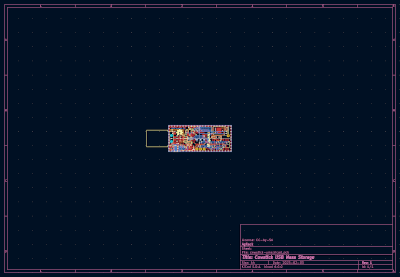
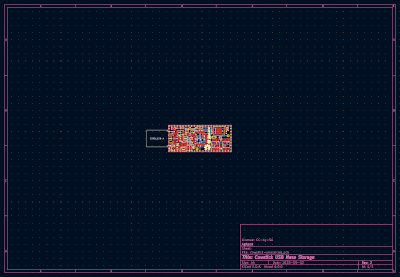
Hardware: Add pictures of rev2, update readme files

Changed region(s): [[0.36, 0.4332, 0.6, 0.5776], [0.72, 0.9242, 0.75, 0.9531], [0.6, 0.8664, 0.63, 0.8953]]

diff --git a/hardware/test_mt3410.md b/hardware/test_mt3410.md
@@ -1,0 +1,66 @@
+Test of MT3410 power supply
+===========================
+
+The goal of this test is to check performance of the MT3410 power supply
+used into board rev2.
+
+For this test, a board has been mounted with power supply only. The input has
+been connected to a 5V regulated power supply, and for the load a variable
+resistance has been connected on output.
+
+![MT3410 testbench](doc/pwr-mt3410-testbench.jpg)
+
+Measures
+--------
+
+<table>
+<tr><td><b>U In</b></td><td><b>I In</b></td><td><b>U Out</b></td><td><b>IOut</b></td>  <td><b>Ripple Out</b></td></tr>
+<tr><td>5,00</td> <td>86 mA</td><td>3,34</td><td>120,9 mA</td><td>20mV @ 1,15MHz</td></tr>
+<tr><td>5,00</td><td>106 mA</td><td>3,32</td><td>150,1 mA</td><td>22mV @ 1,15MHz</td></tr>
+<tr><td>5,00</td><td>141 mA</td><td>3,31</td><td>198,9 mA</td><td>26mV @ 1,15MHz</td></tr>
+<tr><td>5,00</td><td>179 mA</td><td>3,32</td><td>251,8 mA</td><td>27mV @   ''   </td></tr>
+<tr><td>5,00</td><td>212 mA</td><td>3,31</td><td>298,2 mA</td><td>&nbsp;</td></tr>
+<tr><td>5,00</td><td>249 mA</td><td>3,31</td><td>349,3 mA</td><td>&nbsp;</td></tr>
+<tr><td>5,00</td><td>289 mA</td><td>3,30</td><td>403,4 mA</td><td>&nbsp;</td></tr>
+<tr><td>5,00</td><td>324 mA</td><td>3,29</td><td>449,5 mA</td><td>&nbsp;</td></tr>
+<tr><td>5,00</td><td>362 mA</td><td>3,28</td><td>502,0 mA</td><td>&nbsp;</td></tr>
+</table>
+
+<table>
+<tr>
+<td><img src="doc/pwr-mt3410-osc2.png" alt="DC at 200mA"/></td>
+<td><img src="doc/pwr-mt3410-osc1.png" alt="Noise at 100mA"/></td>
+</tr><tr>
+<td>Fig2: Output with 200mA load</td>
+<td>Fig3: Noise with 100mA load</td>
+</tr>
+<tr>
+<td><img src="doc/pwr-mt3410-osc3.png" alt="Noise 300mA"/></td>
+<td><img src="doc/pwr-mt3410-osc4.png" alt="Noise 400mA"/></td>
+</tr><tr>
+<td>Fig4: Noise with 300mA load</td>
+<td>Fig5: Noise with 400mA load</td>
+</tr>
+</table>
+
+Thermal test
+------------
+
+A quick thermal verification has been made. Below picture has been taken
+after 15 minutes at 200mA (T amb ~19°C). A more complete and documented
+thermal test should be made (but not yet planned)
+
+<table>
+<tr>
+<td><img src="doc/pwr-mt3410-th_pic.jpg" alt="Camera view"/></td>
+<td><img src="doc/pwr-mt3410-th_ir.jpg"  alt="IR view"/></td>
+</tr><tr>
+<td>Fig6: Camera view</td>
+<td>Fig7: IR view</td>
+</tr>
+</table>
+
+Conclusion
+----------
+
+The new regulator ic MT3410 seems to be ok for the needs of cowstick-ums.

diff --git a/hardware/Readme.md b/hardware/Readme.md
@@ -1,7 +1,13 @@
 Cowstick UMS - Hardware
 =======================
 
-A new revision (rev2) have been designed and is currently in production.
+A new revision (rev2) have been designed to include some improvements.
+
+List of changes since previous version :
+ - Modify power supply to use another regulator ic (see [test_mt3410.md](test_mt3410.md) )
+ - Remove the alternative power supply (LDO, never used)
+ - Add a second LED indicator and a user push-button
+ - Modify the USB connector (for test)
 
 ![PCB Routing](doc/pcb-routing.png)
 
@@ -18,17 +24,22 @@ A new revision (rev2) have been designed and is currently in production.
 Revision 1
 ----------
 
-Below pictures of the first revision of the board. Everything works and
-can still been used.
-
-![View of rev1 PCB routing](doc/rev1-routing.png)
+Below pictures of the first revision of the board. Everything works fine, this
+revision can still been used.
 
 <table>
+<tr>
+<td><img src="doc/rev1-case.jpg"    alt="Revision 1"/></td>
+<td><img src="doc/rev1-routing.png" alt="Routing of rev1"/></td>
+</tr><tr>
+<td>Fig3: cowstick-ums revision 1</td>
+<td>Fig4: Preview of rev1 routing</td>
+</tr>
 <tr>
 <td><img src="doc/rev1-3d-top.png"    alt="3D view (top side)"/></td>
 <td><img src="doc/rev1-3d-bottom.png" alt="3D view (bottom side)"/></td>
 </tr><tr>
-<td>Fig1: 3D view of the top side</td>
-<td>Fig2: 3D view of the bottom side</td>
+<td>Fig5: 3D view of the top side</td>
+<td>Fig6: 3D view of the bottom side</td>
 </tr>
 </table>

diff --git a/readme.md b/readme.md
@@ -6,7 +6,7 @@ device. It is *not* desined for very large storage capacity or high throughput
 but offer a simple solution to create a storage device with custom features.
 This device is part of cowstick boards family.
 
-![Picture of rev1](hardware/doc/rev1-case.jpg)
+![Picture of rev2](hardware/doc/rev2-case.jpg)
 
 CAD sources
 -----------
@@ -16,7 +16,7 @@ This board has been designed using KiCad EDA (version 6). All sources files
 
 <table>
 <tr>
-<td><img src="hardware/doc/kicad-sch-preview.png"     alt="KiCad schematics"/></td>
+<td><img src="hardware/doc/kicad-sch-preview.jpg"     alt="KiCad schematics"/></td>
 <td><img src="hardware/doc/kicad-routing-preview.png" alt="KiCad routing"/></td>
 </tr><tr>
 <td>Fig1: Preview of the KiCad schematics</td>
@@ -27,7 +27,7 @@ This board has been designed using KiCad EDA (version 6). All sources files
 License
 -------
 
-This project is OpenHardware. The hardware stugg is published under terms of
-the Creative Commons ShareAlike license (CC-by-SA) see hardware/License.md.
+This project is OpenHardware. The hardware stuff is published under terms of
+the Creative Commons ShareAlike license (CC-by-SA) see [hardware/License.md](hardware/License.md).
 The embedded firmware is published under terms of the GNU Lesser General Public
-License (LGPL) version 3 see firmware/License.md.
+License (LGPL) version 3 see [firmware/License.md](firmware/License.md).
